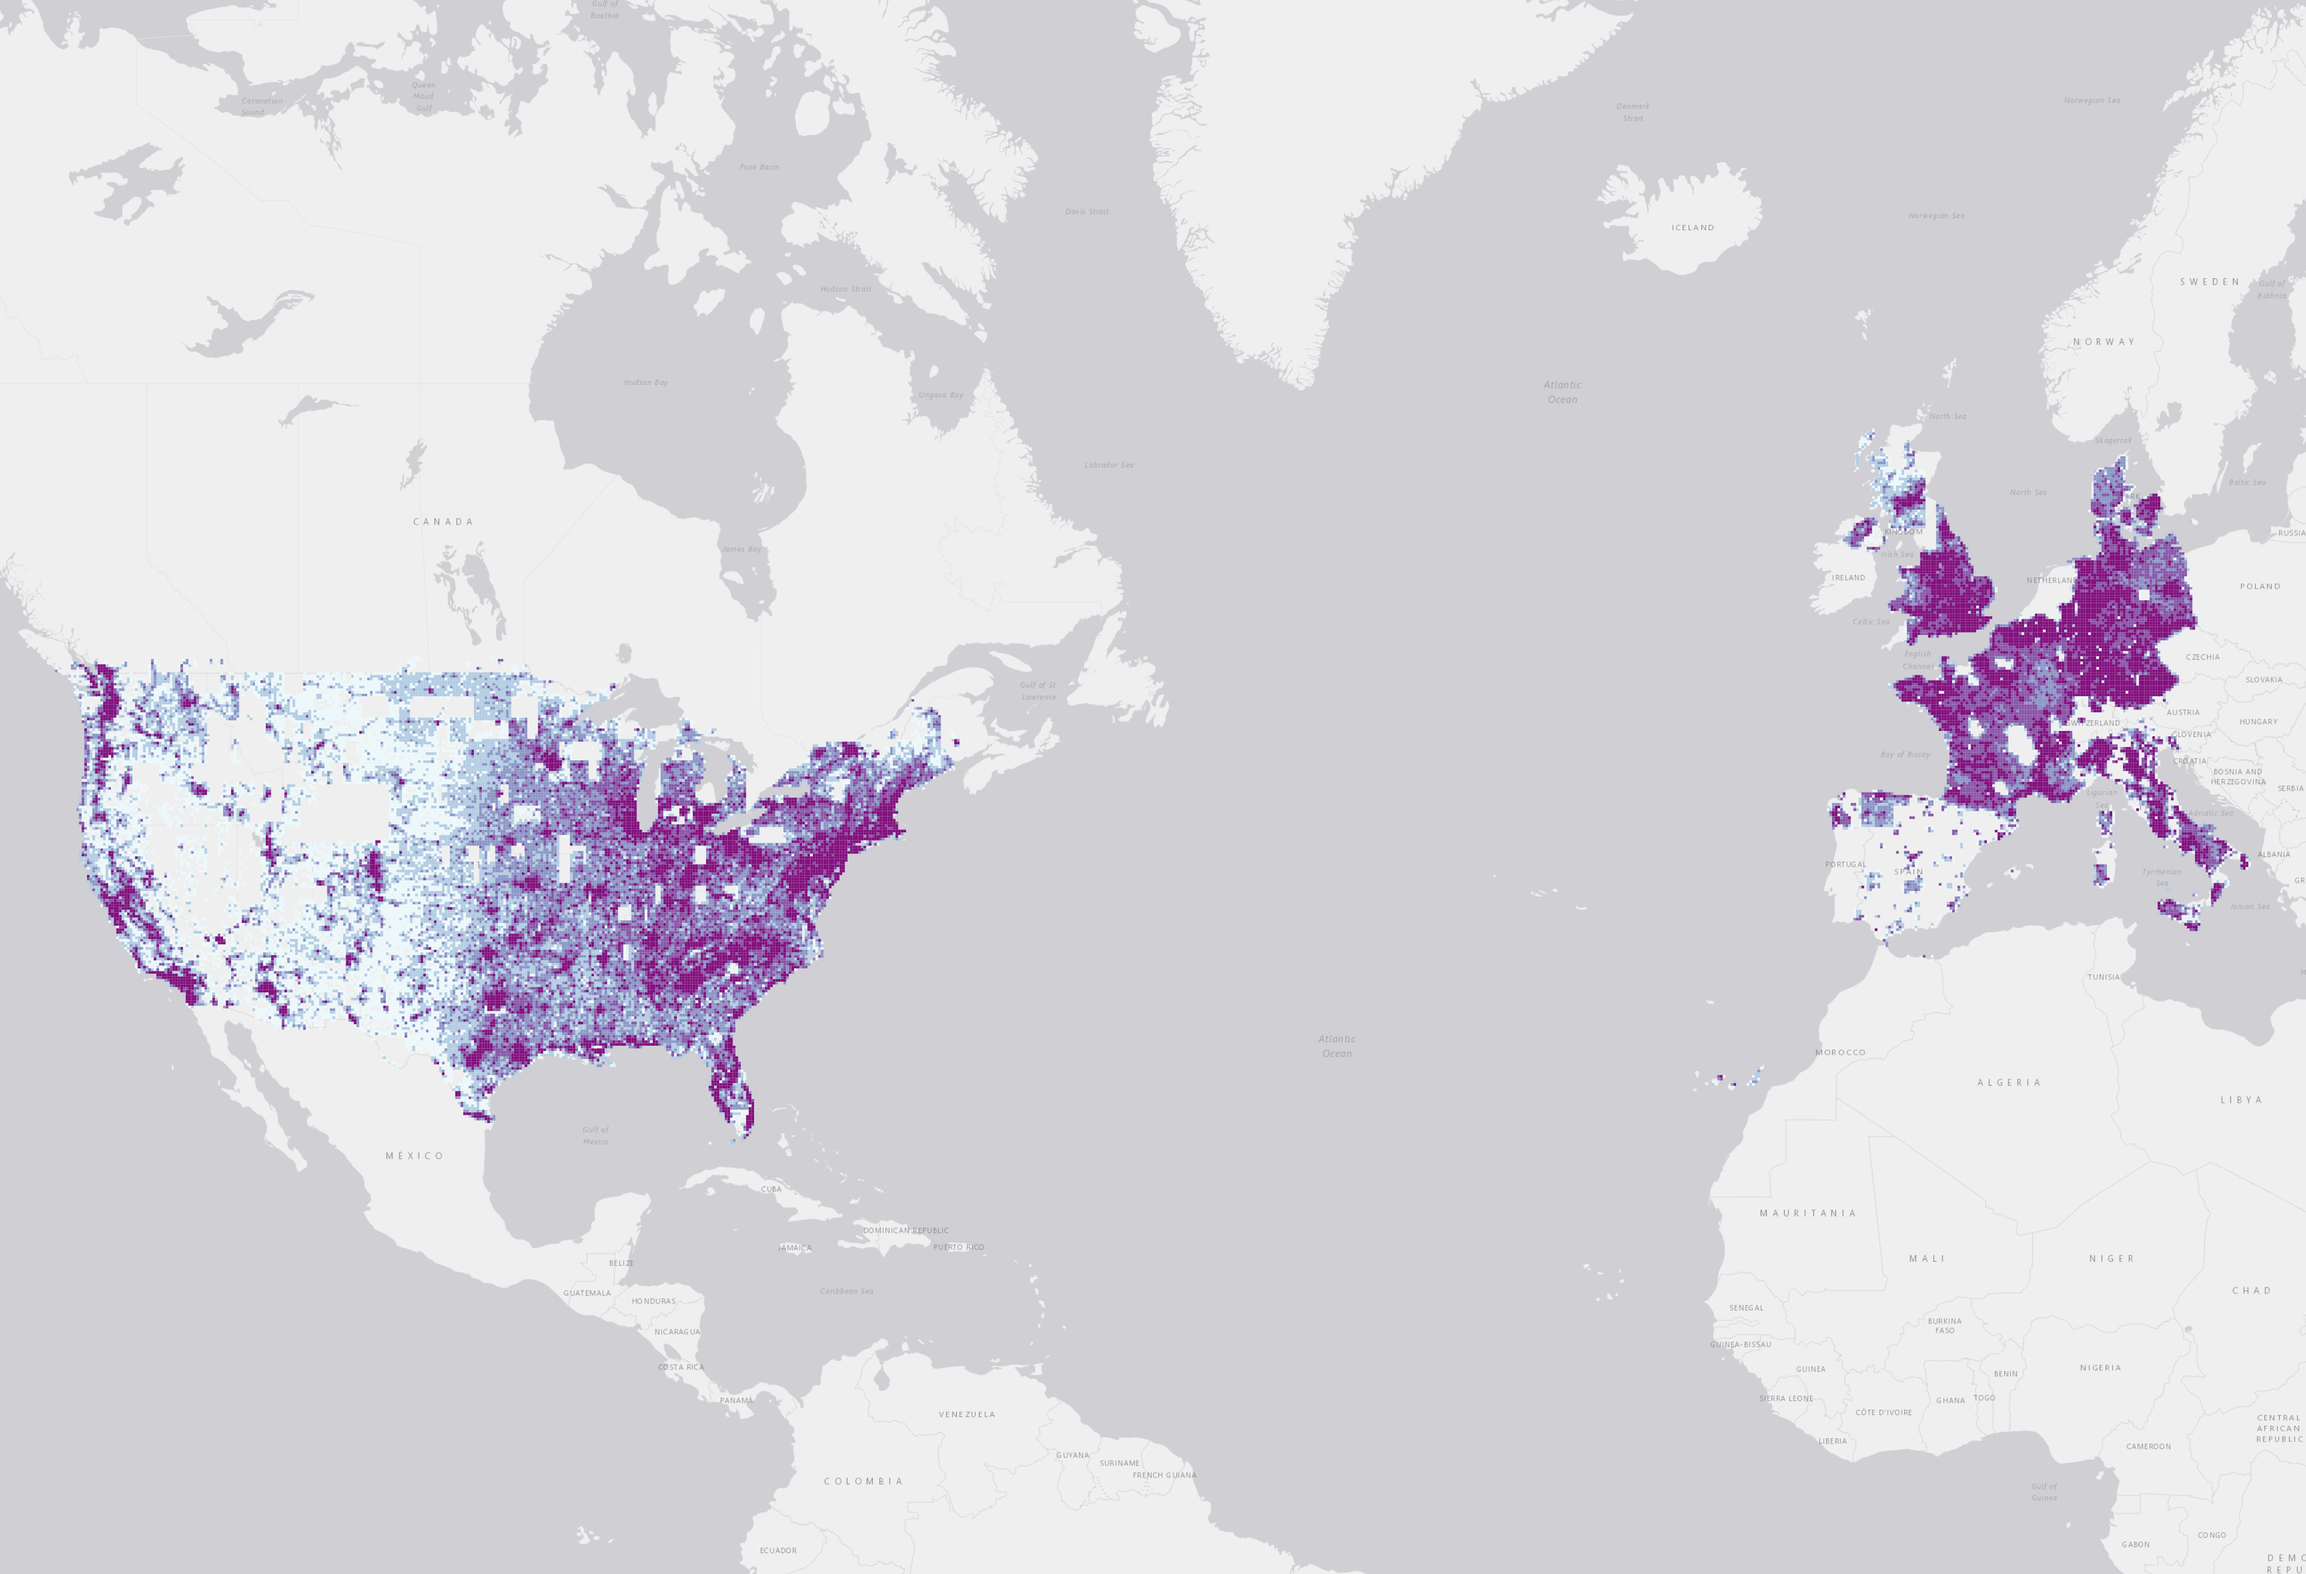
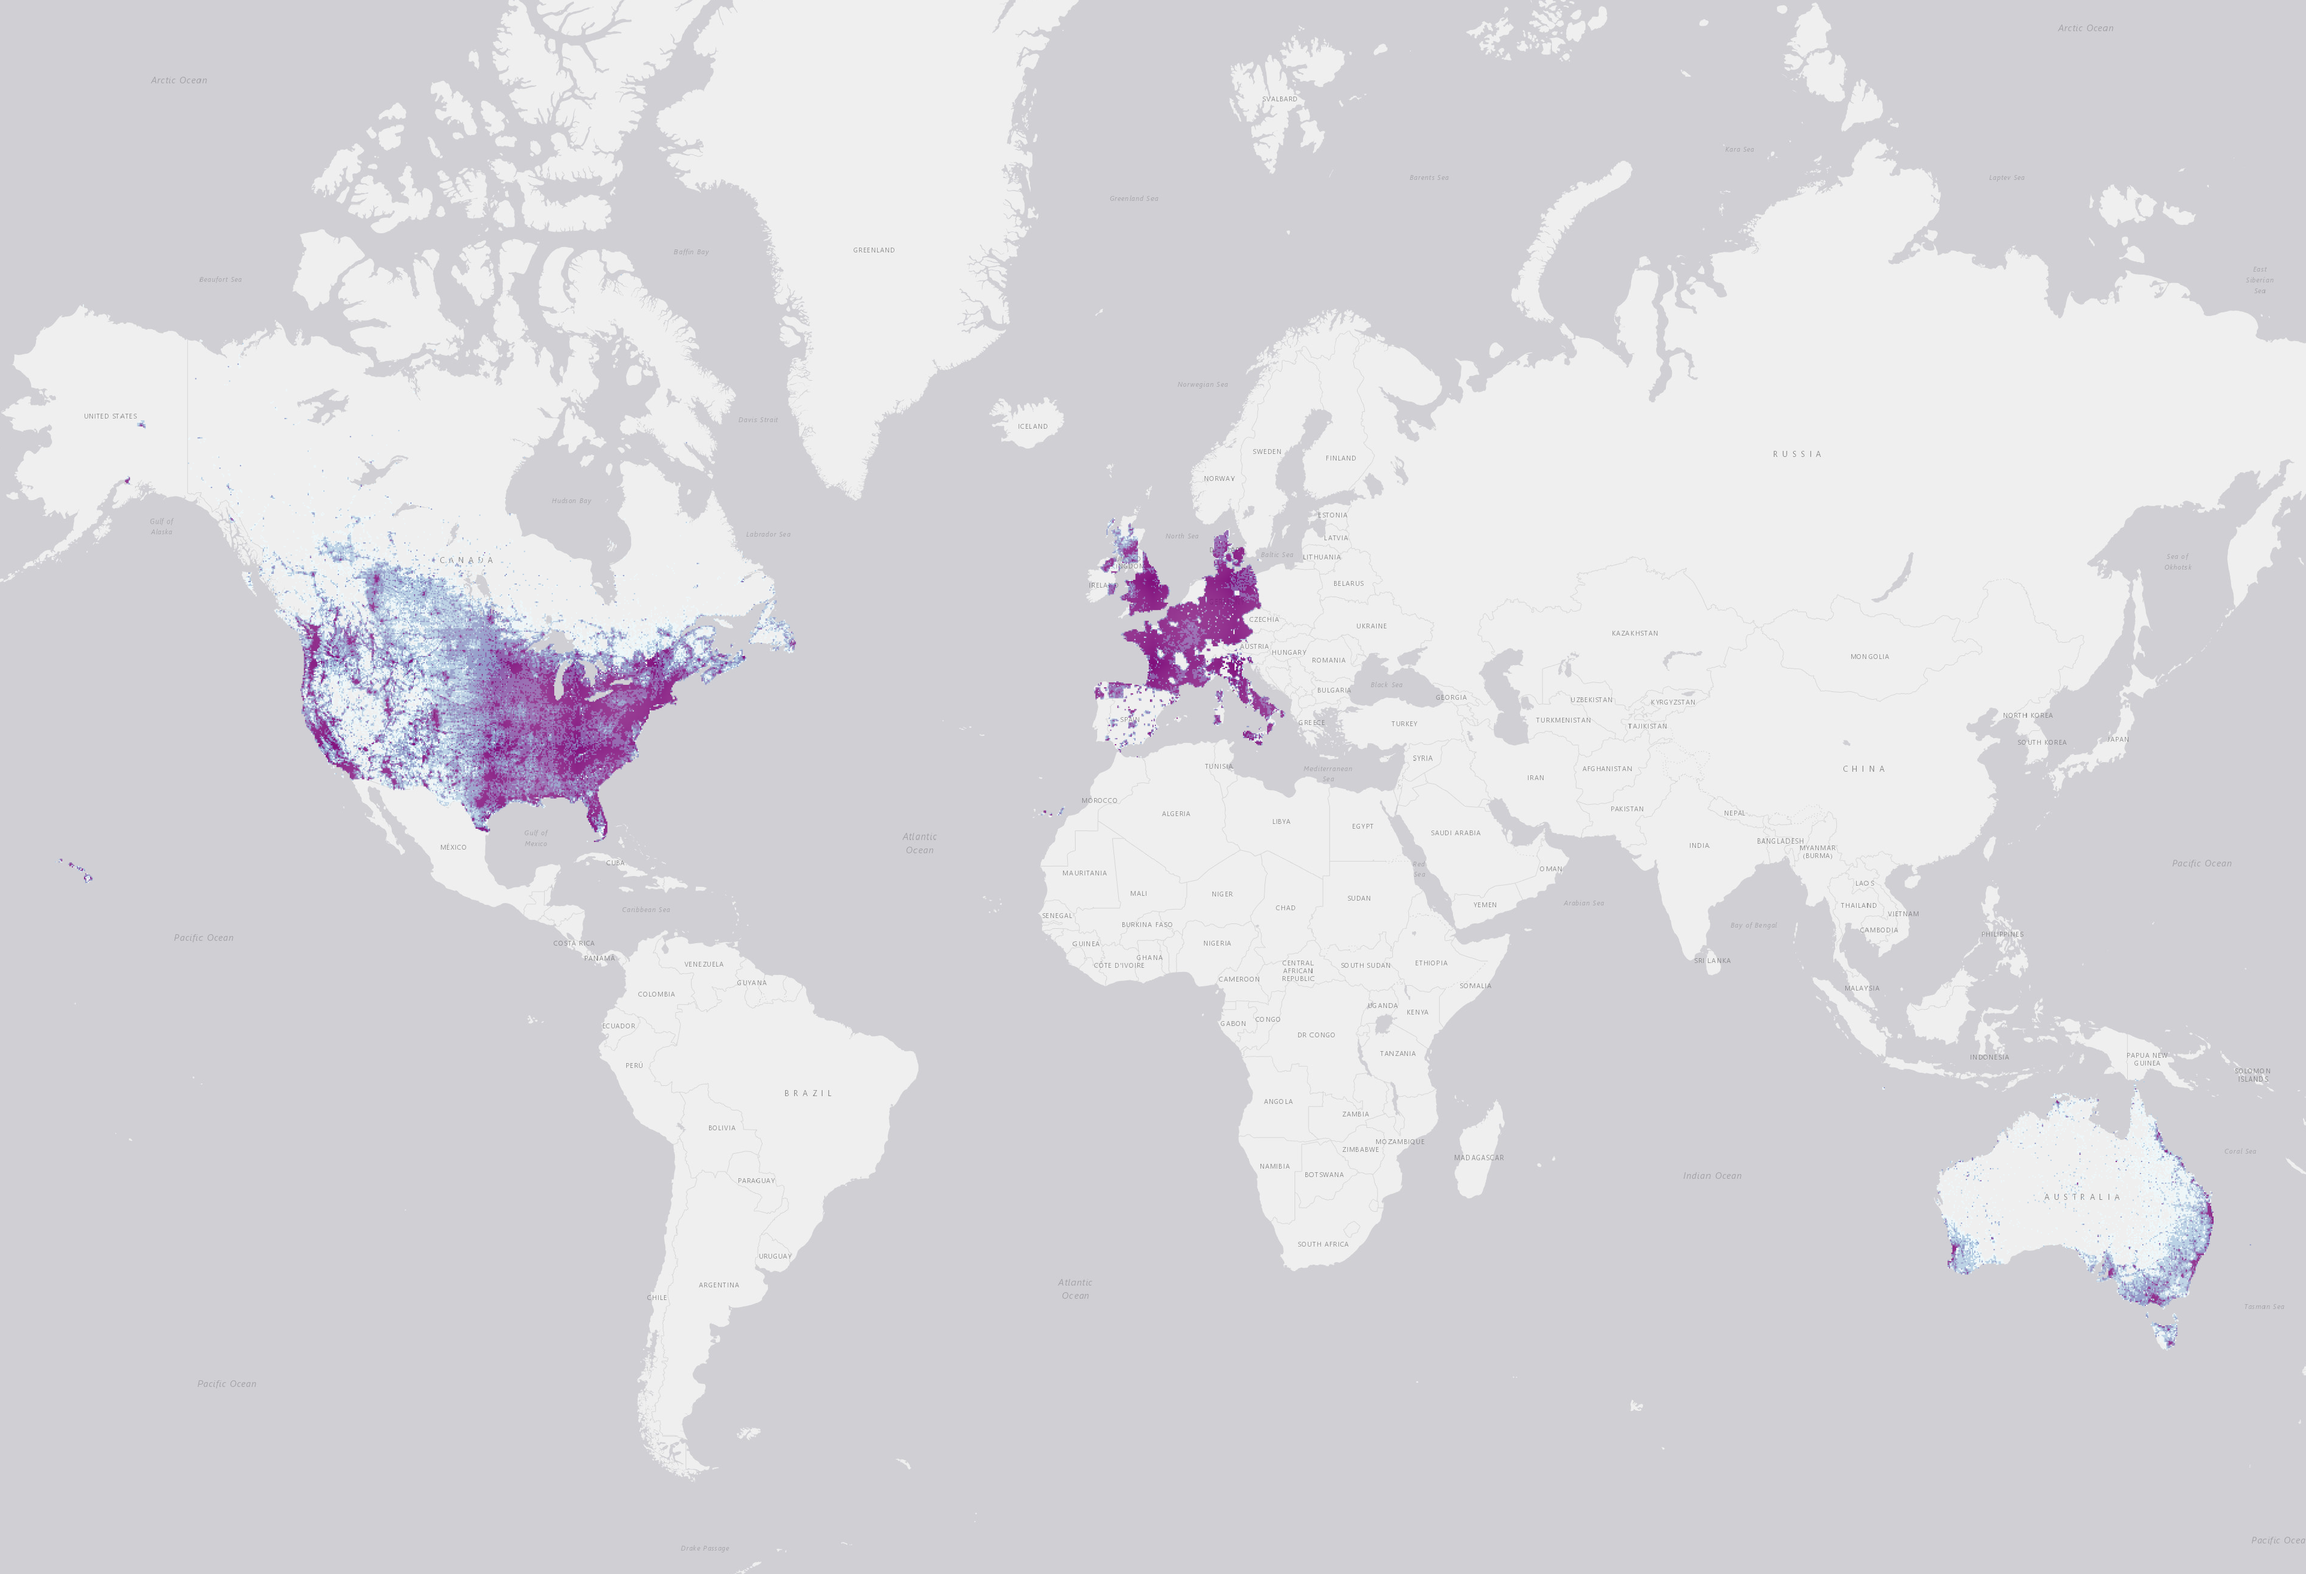
All ml buildings (#60)
* updating for combined buildings dataset

* added section link

diff --git a/README.md b/README.md
@@ -1,8 +1,9 @@
 ## Introduction
 
-Bing Maps is releasing open building footprints around the world. We have detected **1.02B** buildings from Bing Maps imagery between 2014 and 2023 including Maxar, Airbus, and IGN France imagery. The data is freely available for download and use under ODbL. This dataset complements our [other releases](#will-there-be-more-data-coming-for-other-geographies). 
+Bing Maps is releasing open building footprints around the world. We have detected **1.2B** buildings from Bing Maps imagery between 2014 and 2023 including Maxar, Airbus, and IGN France imagery. The data is freely available for download and use under ODbL. This dataset includes our [other releases](#will-there-be-more-data-coming-for-other-geographies). 
 
 ## Updates
+* 2023-06-05 - Combining [all building footprint releases](#will-there-be-more-data-coming-for-other-geographies) into one distribution. Total footprints: **1.2B**. Footprints with height: **174M**. Updated coverage map and associated features. Other data sources will remain unchanged. 
 * 2023-05-31 - added **49M** updated footprints and **10M** height attributes from Vexcel and Maxar imagery. Biggest contributes are Nigeria (18M), United States (9M), and Burkina Faso (7M).
 * 2023-05-18 - added **77M** buildings heights to the US and Western Europe. See Coverage map.
 * 2023-04-28 - Improved near duplicate and overlapping data detection and removal. 
